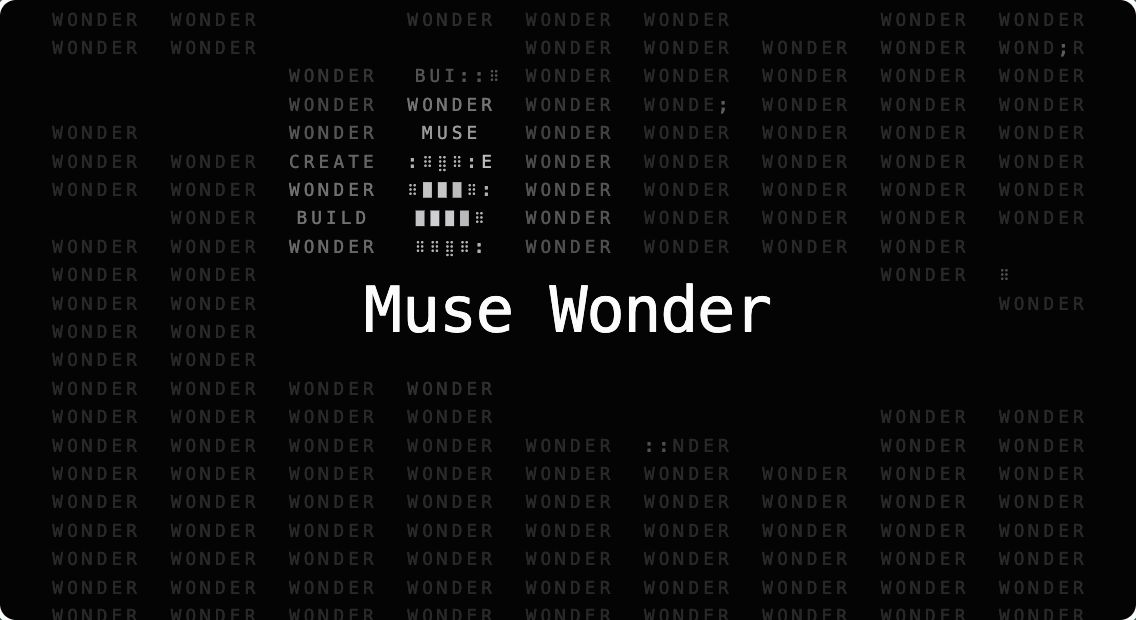
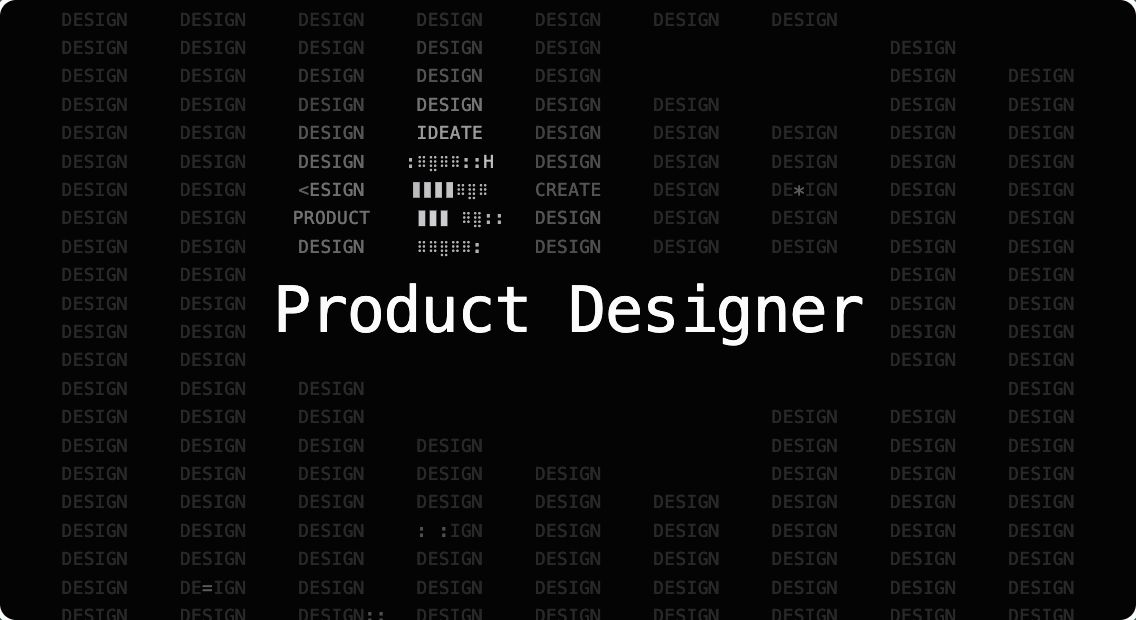
artifact update

diff --git a/design-artifacts/muse-wonder/artifact.html b/design-artifacts/muse-wonder/artifact.html
@@ -4,7 +4,7 @@
 <head>
   <meta charset="UTF-8">
   <meta name="viewport" content="width=device-width, initial-scale=1.0">
-  <title>Muse Wonder — Ishaan Jain</title>
+  <title>Design in Motion — Ishaan Jain</title>
   <style>
 
 * { box-sizing: border-box; margin: 0; padding: 0; }
@@ -203,7 +203,7 @@ body {
   z-index: 1;
   color: #fff;
   font-family: var(--muse-mono);
-  font-size: clamp(28px, 4.4vw, 64px);
+  font-size: clamp(16px, 4.4vw, 64px);
   font-weight: 400;
   line-height: 1;
   letter-spacing: -0.02em;
@@ -219,6 +219,7 @@ body {
 
 @media (max-width: 640px) {
   .muse-stage { height: 440px; padding: 16px; border-radius: 12px; }
+  .muse-title { font-size: clamp(16px, 5.5vw, 32px); }
 }
 
 @media (prefers-reduced-motion: reduce) {
@@ -234,10 +235,10 @@ body {
 </head>
 <body>
   <main class="artifacts-page artifact-detail">
-    <header class="artifacts-header"><h1>Muse Wonder</h1></header>
-    <section class="muse-stage" tabindex="0" aria-label="Interactive Muse Wonder typography. Move your pointer or use the arrow keys to explore the field. Press Escape to let it settle.">
+    <header class="artifacts-header"><h1>Design in Motion</h1></header>
+    <section class="muse-stage" tabindex="0" aria-label="Interactive Product Designer typography. Move your pointer or use the arrow keys to explore words from the product design process. Press Escape to let it settle.">
       <canvas aria-hidden="true"></canvas>
-      <div class="muse-title">Muse Wonder</div>
+      <div class="muse-title">Product Designer</div>
     </section>
     <div class="artifact-detail-caption">
       <p>Move your pointer or drag across the field. You can also focus it and use the arrow keys.</p>
@@ -252,11 +253,12 @@ body {
   const cv = host.querySelector('canvas'), ctx = cv.getContext('2d'), title = host.querySelector('.muse-title');
   if (!ctx) return;
   let rafId = null, inView = true, elapsed = 0;
-  const WORDS = ['MUSE', 'BUILD', 'CREATE', 'WONDER'];
+  const WORDS = ['PRODUCT', 'DESIGN', 'RESEARCH', 'IDEATE', 'CREATE', 'TEST', 'ITERATE'];
+  const REST_WORD = 'DESIGN';
   const SYMS = '@*^<>·:;#+%&=~1✺';
   const MONO = '"JetBrains Mono","SF Mono",ui-monospace,Menlo,Consolas,"Liberation Mono",monospace';
   const reduce = matchMedia('(prefers-reduced-motion: reduce)').matches;
-  const MAXL = 6, REST = 0.15;           // resting opacity of the dim letters
+  const MAXL = Math.max(...WORDS.map(word => word.length)), REST = 0.15;
   const rnd = s => s[(Math.random() * s.length) | 0];
   const sstep = (a, b, x) => { x = Math.min(1, Math.max(0, (x - a) / (b - a))); return x * x * (3 - 2 * x); };
 
@@ -269,7 +271,7 @@ body {
     cv.width = W * dpr; cv.height = H * dpr;
     ctx.setTransform(dpr, 0, 0, dpr, 0, 0);
     pitch = Math.max(88, Math.min(W / 9.6, 140));
-    rowP = pitch * 0.24; letterP = pitch * 0.125; fontPx = pitch * 0.15;
+    rowP = pitch * 0.24; letterP = pitch * 0.75 / MAXL; fontPx = pitch * 0.15;
     cols = Math.max(3, Math.floor((W - 60) / pitch));
     rows = Math.ceil(H / rowP) + 1;
     ox = (W - cols * pitch) / 2 + pitch / 2;
@@ -293,8 +295,8 @@ body {
           y > tr.top - rowP * 0.6 && y - rowP < tr.bottom + rowP * 0.4) hole[r * cols + c] = 1;
     }
     cells = Array.from({ length: cols * rows }, () => ({
-      word: 'WONDER', old: null, shown: null, t0: 0, a: REST, e: 0, thr: 0.18 + Math.random() * 0.4,
-      hot: false, alt: 'WONDER', glitch: null, pending: undefined
+      word: REST_WORD, old: null, shown: null, t0: 0, a: REST, e: 0, thr: 0.18 + Math.random() * 0.4,
+      hot: false, alt: REST_WORD, glitch: null, pending: undefined
     }));
     heat = new Float32Array(cols * rows * MAXL);
   }
@@ -351,7 +353,7 @@ body {
 
     if (!reduce && Math.random() < 0.15) {                // rare stray glitch in the resting state
       const c = cells[(Math.random() * cells.length) | 0];
-      if (c.shown) c.glitch = { i: (Math.random() * 6) | 0, ch: rnd(SYMS), until: now + 150 + Math.random() * 450 };
+      if (c.shown) c.glitch = { i: (Math.random() * c.word.length) | 0, ch: rnd(SYMS), until: now + 150 + Math.random() * 450 };
     }
 
     for (let r = 0; r < rows; r++) {
@@ -367,11 +369,11 @@ body {
         }
         cell.e = target > cell.e ? cell.e + (target - cell.e) * Math.min(1, dt * 18) : Math.max(0, cell.e - dt * 1.5);
 
-        // hot cells swap WONDER for the other words
+        // hot cells swap DESIGN for words from the product design process
         if (!cell.hot && cell.e > cell.thr) { cell.hot = true; cell.alt = rnd(WORDS); }
         else if (cell.hot && cell.e < cell.thr - 0.08) cell.hot = false;
         else if (cell.hot && Math.random() < dt * 0.12) cell.alt = rnd(WORDS);
-        const desired = cell.hot ? cell.alt : 'WONDER';
+        const desired = cell.hot ? cell.alt : REST_WORD;
 
         const want = wants(k, c, r, t, cell.e);
         if (cell.shown === null) {                         // load: reveal from the top

diff --git a/design-artifacts/muse-wonder/muse-wonder.js b/design-artifacts/muse-wonder/muse-wonder.js
@@ -5,11 +5,12 @@
   const cv = host.querySelector('canvas'), ctx = cv.getContext('2d'), title = host.querySelector('.muse-title');
   if (!ctx) return;
   let rafId = null, inView = true, elapsed = 0;
-  const WORDS = ['MUSE', 'BUILD', 'CREATE', 'WONDER'];
+  const WORDS = ['PRODUCT', 'DESIGN', 'RESEARCH', 'IDEATE', 'CREATE', 'TEST', 'ITERATE'];
+  const REST_WORD = 'DESIGN';
   const SYMS = '@*^<>·:;#+%&=~1✺';
   const MONO = '"JetBrains Mono","SF Mono",ui-monospace,Menlo,Consolas,"Liberation Mono",monospace';
   const reduce = matchMedia('(prefers-reduced-motion: reduce)').matches;
-  const MAXL = 6, REST = 0.15;           // resting opacity of the dim letters
+  const MAXL = Math.max(...WORDS.map(word => word.length)), REST = 0.15;
   const rnd = s => s[(Math.random() * s.length) | 0];
   const sstep = (a, b, x) => { x = Math.min(1, Math.max(0, (x - a) / (b - a))); return x * x * (3 - 2 * x); };
 
@@ -22,7 +23,7 @@
     cv.width = W * dpr; cv.height = H * dpr;
     ctx.setTransform(dpr, 0, 0, dpr, 0, 0);
     pitch = Math.max(88, Math.min(W / 9.6, 140));
-    rowP = pitch * 0.24; letterP = pitch * 0.125; fontPx = pitch * 0.15;
+    rowP = pitch * 0.24; letterP = pitch * 0.75 / MAXL; fontPx = pitch * 0.15;
     cols = Math.max(3, Math.floor((W - 60) / pitch));
     rows = Math.ceil(H / rowP) + 1;
     ox = (W - cols * pitch) / 2 + pitch / 2;
@@ -46,8 +47,8 @@
           y > tr.top - rowP * 0.6 && y - rowP < tr.bottom + rowP * 0.4) hole[r * cols + c] = 1;
     }
     cells = Array.from({ length: cols * rows }, () => ({
-      word: 'WONDER', old: null, shown: null, t0: 0, a: REST, e: 0, thr: 0.18 + Math.random() * 0.4,
-      hot: false, alt: 'WONDER', glitch: null, pending: undefined
+      word: REST_WORD, old: null, shown: null, t0: 0, a: REST, e: 0, thr: 0.18 + Math.random() * 0.4,
+      hot: false, alt: REST_WORD, glitch: null, pending: undefined
     }));
     heat = new Float32Array(cols * rows * MAXL);
   }
@@ -104,7 +105,7 @@
 
     if (!reduce && Math.random() < 0.15) {                // rare stray glitch in the resting state
       const c = cells[(Math.random() * cells.length) | 0];
-      if (c.shown) c.glitch = { i: (Math.random() * 6) | 0, ch: rnd(SYMS), until: now + 150 + Math.random() * 450 };
+      if (c.shown) c.glitch = { i: (Math.random() * c.word.length) | 0, ch: rnd(SYMS), until: now + 150 + Math.random() * 450 };
     }
 
     for (let r = 0; r < rows; r++) {
@@ -120,11 +121,11 @@
         }
         cell.e = target > cell.e ? cell.e + (target - cell.e) * Math.min(1, dt * 18) : Math.max(0, cell.e - dt * 1.5);
 
-        // hot cells swap WONDER for the other words
+        // hot cells swap DESIGN for words from the product design process
         if (!cell.hot && cell.e > cell.thr) { cell.hot = true; cell.alt = rnd(WORDS); }
         else if (cell.hot && cell.e < cell.thr - 0.08) cell.hot = false;
         else if (cell.hot && Math.random() < dt * 0.12) cell.alt = rnd(WORDS);
-        const desired = cell.hot ? cell.alt : 'WONDER';
+        const desired = cell.hot ? cell.alt : REST_WORD;
 
         const want = wants(k, c, r, t, cell.e);
         if (cell.shown === null) {                         // load: reveal from the top

diff --git a/design-artifacts/muse-wonder/index.html b/design-artifacts/muse-wonder/index.html
@@ -3,13 +3,13 @@
 <head>
   <meta charset="UTF-8">
   <meta name="viewport" content="width=device-width, initial-scale=1.0">
-  <title>Ishaan Jain — Muse Wonder</title>
-  <meta name="description" content="An interactive typography field where words brighten, scramble, and transform around your pointer.">
+  <title>Ishaan Jain — Design in Motion</title>
+  <meta name="description" content="Design in Motion: an interactive field of product design words that brighten, scramble, and transform as you explore.">
   <link rel="icon" type="image/png" href="../../assets/logo/logo.png">
   <link rel="stylesheet" href="../../css/shared.css">
   <link rel="stylesheet" href="../../css/animations.css">
   <link rel="stylesheet" href="../../css/design-artifacts.css?v=2" data-artifact-export>
-  <link rel="stylesheet" href="muse-wonder.css" data-artifact-export>
+  <link rel="stylesheet" href="muse-wonder.css?v=2" data-artifact-export>
 </head>
 <body>
   <nav class="nav">
@@ -44,19 +44,19 @@
     <header class="artifacts-header">
       <a class="artifacts-back" href="../"><span aria-hidden="true">←</span> Design Artifacts</a>
       <p class="artifacts-eyebrow">03 / Interactive experiment</p>
-      <h1>Muse Wonder</h1>
-      <p class="artifacts-intro">A field of words that comes alive as you explore. Move, build, create, wonder.</p>
+      <h1>Design in Motion</h1>
+      <p class="artifacts-intro">Explore the language of product design through an interactive field of type. Research, ideate, create, iterate.</p>
       <div class="artifact-actions">
-        <a class="artifact-download" href="artifact.html" download="muse-wonder.html">
+        <a class="artifact-download" href="artifact.html" download="design-in-motion.html">
           <svg viewBox="0 0 20 20" fill="none" stroke="currentColor" stroke-width="1.5" stroke-linecap="round" stroke-linejoin="round" aria-hidden="true"><path d="M10 3v9m-4-4 4 4 4-4M4 14v3h12v-3"/></svg>
           Download HTML
         </a>
       </div>
     </header>
     <!-- artifact-export:start -->
-    <section class="muse-stage" tabindex="0" aria-label="Interactive Muse Wonder typography. Move your pointer or use the arrow keys to explore the field. Press Escape to let it settle.">
+    <section class="muse-stage" tabindex="0" aria-label="Interactive Product Designer typography. Move your pointer or use the arrow keys to explore words from the product design process. Press Escape to let it settle.">
       <canvas aria-hidden="true"></canvas>
-      <div class="muse-title">Muse Wonder</div>
+      <div class="muse-title">Product Designer</div>
     </section>
     <div class="artifact-detail-caption">
       <p>Move your pointer or drag across the field. You can also focus it and use the arrow keys.</p>
@@ -90,6 +90,6 @@
 
   <script src="../../js/constants.js"></script>
   <script src="../../js/shared.js"></script>
-  <script src="muse-wonder.js" data-artifact-export></script>
+  <script src="muse-wonder.js?v=2" data-artifact-export></script>
 </body>
 </html>

diff --git a/design-artifacts/index.html b/design-artifacts/index.html
@@ -67,11 +67,11 @@
       </a>
       <a class="artifact-card" href="muse-wonder/">
         <div class="artifact-card-preview">
-          <img src="../assets/thumbnails/design-artifacts-muse-wonder.jpg" alt="Muse Wonder surrounded by an interactive field of glowing words and scrambled characters" width="1136" height="620" loading="lazy">
+          <img src="../assets/thumbnails/design-artifacts-muse-wonder.jpg?v=2" alt="Product Designer surrounded by an interactive field of product design words and scrambled characters" width="1136" height="620" loading="lazy">
           <span class="artifact-card-arrow" aria-hidden="true">↗</span>
         </div>
-        <div class="artifact-card-heading"><h2>Muse Wonder</h2><span class="artifact-number">03</span></div>
-        <p>A living field of words, shaped by your curiosity.</p>
+        <div class="artifact-card-heading"><h2>Design in Motion</h2><span class="artifact-number">03</span></div>
+        <p>A living field of product design ideas, shaped by your curiosity.</p>
         <div class="artifact-tags"><span>Typography</span><span>Interactive</span><span>AI-assisted</span></div>
       </a>
     </section>

diff --git a/design-artifacts/muse-wonder/muse-wonder.css b/design-artifacts/muse-wonder/muse-wonder.css
@@ -28,7 +28,7 @@
   z-index: 1;
   color: #fff;
   font-family: var(--muse-mono);
-  font-size: clamp(28px, 4.4vw, 64px);
+  font-size: clamp(16px, 4.4vw, 64px);
   font-weight: 400;
   line-height: 1;
   letter-spacing: -0.02em;
@@ -44,6 +44,7 @@
 
 @media (max-width: 640px) {
   .muse-stage { height: 440px; padding: 16px; border-radius: 12px; }
+  .muse-title { font-size: clamp(16px, 5.5vw, 32px); }
 }
 
 @media (prefers-reduced-motion: reduce) {

diff --git a/agent.md b/agent.md
@@ -11,7 +11,7 @@ This portfolio is a static HTML/CSS/JS site. Keep edits small, visual, and consi
 - Garage page: `garage/index.html`, `css/garage.css`, `js/garage.js`
 - Design Artifacts collection: `design-artifacts/index.html`, `css/design-artifacts.css`. Individual artifacts have their own folders under `design-artifacts/`; Desk Computer reuses the homepage computer CSS and JavaScript.
 - Koi Pond artifact: `design-artifacts/koi-pond/`. Keep canvas styles scoped, start audio only through interaction, and pause rendering/audio when the pond is out of view.
-- Muse Wonder artifact: `design-artifacts/muse-wonder/`. Measure the typography and pointer coordinates relative to its canvas, and pause animation off-screen. Retain keyboard exploration and reduced-motion behavior.
+- Design in Motion artifact: `design-artifacts/muse-wonder/`. Measure the typography and pointer coordinates relative to its canvas, and pause animation off-screen. Retain keyboard exploration and reduced-motion behavior.
 - Artifact HTML downloads: mark required stylesheet/script tags with `data-artifact-export` and wrap the interactive markup in `artifact-export:start` / `artifact-export:end` HTML comments. Run `python3 scripts/build-artifact-downloads.py` after changes to regenerate each artifact's self-contained `artifact.html`.
 - Project pages are folder-based case studies, usually with their own CSS and assets.
 

diff --git a/README.md b/README.md
@@ -14,7 +14,7 @@ For future editing support, see `agent.md`.
 - **Garage** — Curated project library grouped by Product Design, Scientific Tools, AI Systems, and Visual / Brand.
 - **Design Artifacts** — Collection of AI-generated animations and interactive experiments, linked from Garage's Visual / Brand section. Each artifact has a dedicated page under `design-artifacts/`.
 - **Koi Pond — Side A** — Interactive vinyl-record pond with swimming koi, a draggable tonearm, and ambient audio at `design-artifacts/koi-pond/`.
-- **Muse Wonder** — Pointer-reactive typography, word transformations, and character trails at `design-artifacts/muse-wonder/`.
+- **Design in Motion** — Pointer-reactive product design typography, word transformations, and character trails at `design-artifacts/muse-wonder/`.
 - **HTML downloads** — Each artifact page has a Download HTML link to a self-contained, offline-ready file. Refresh these files after editing an artifact with `python3 scripts/build-artifact-downloads.py`.
 - **Project pages** — Individual case studies and visual explorations live in their own folders.
 
